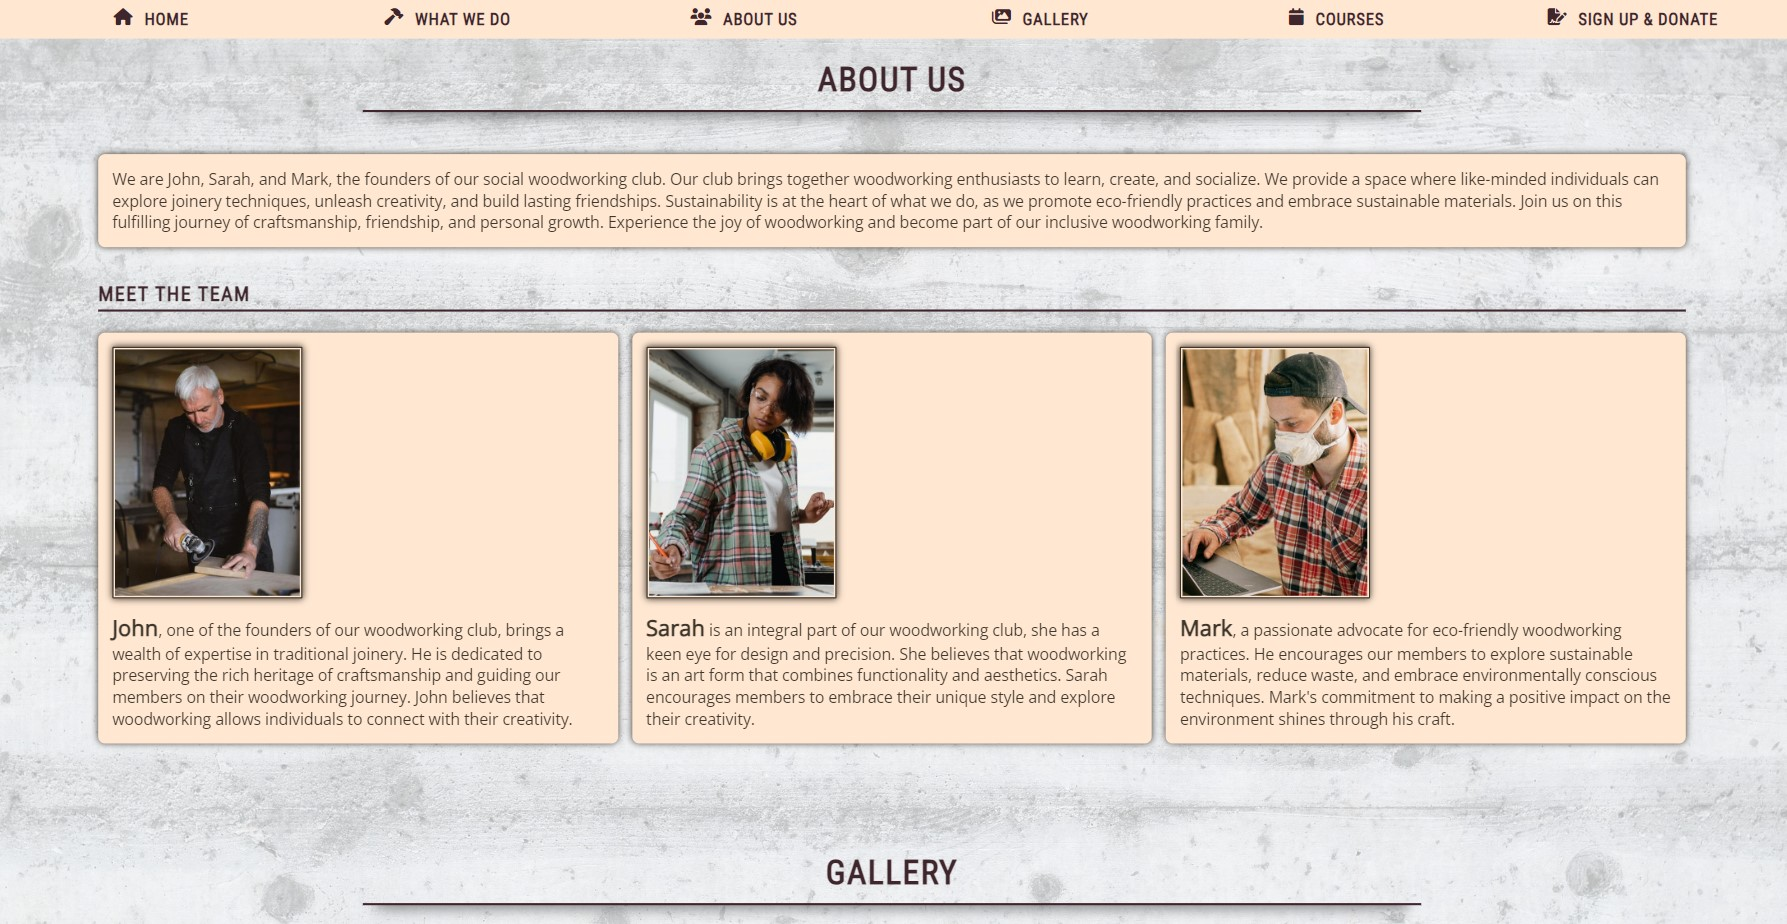
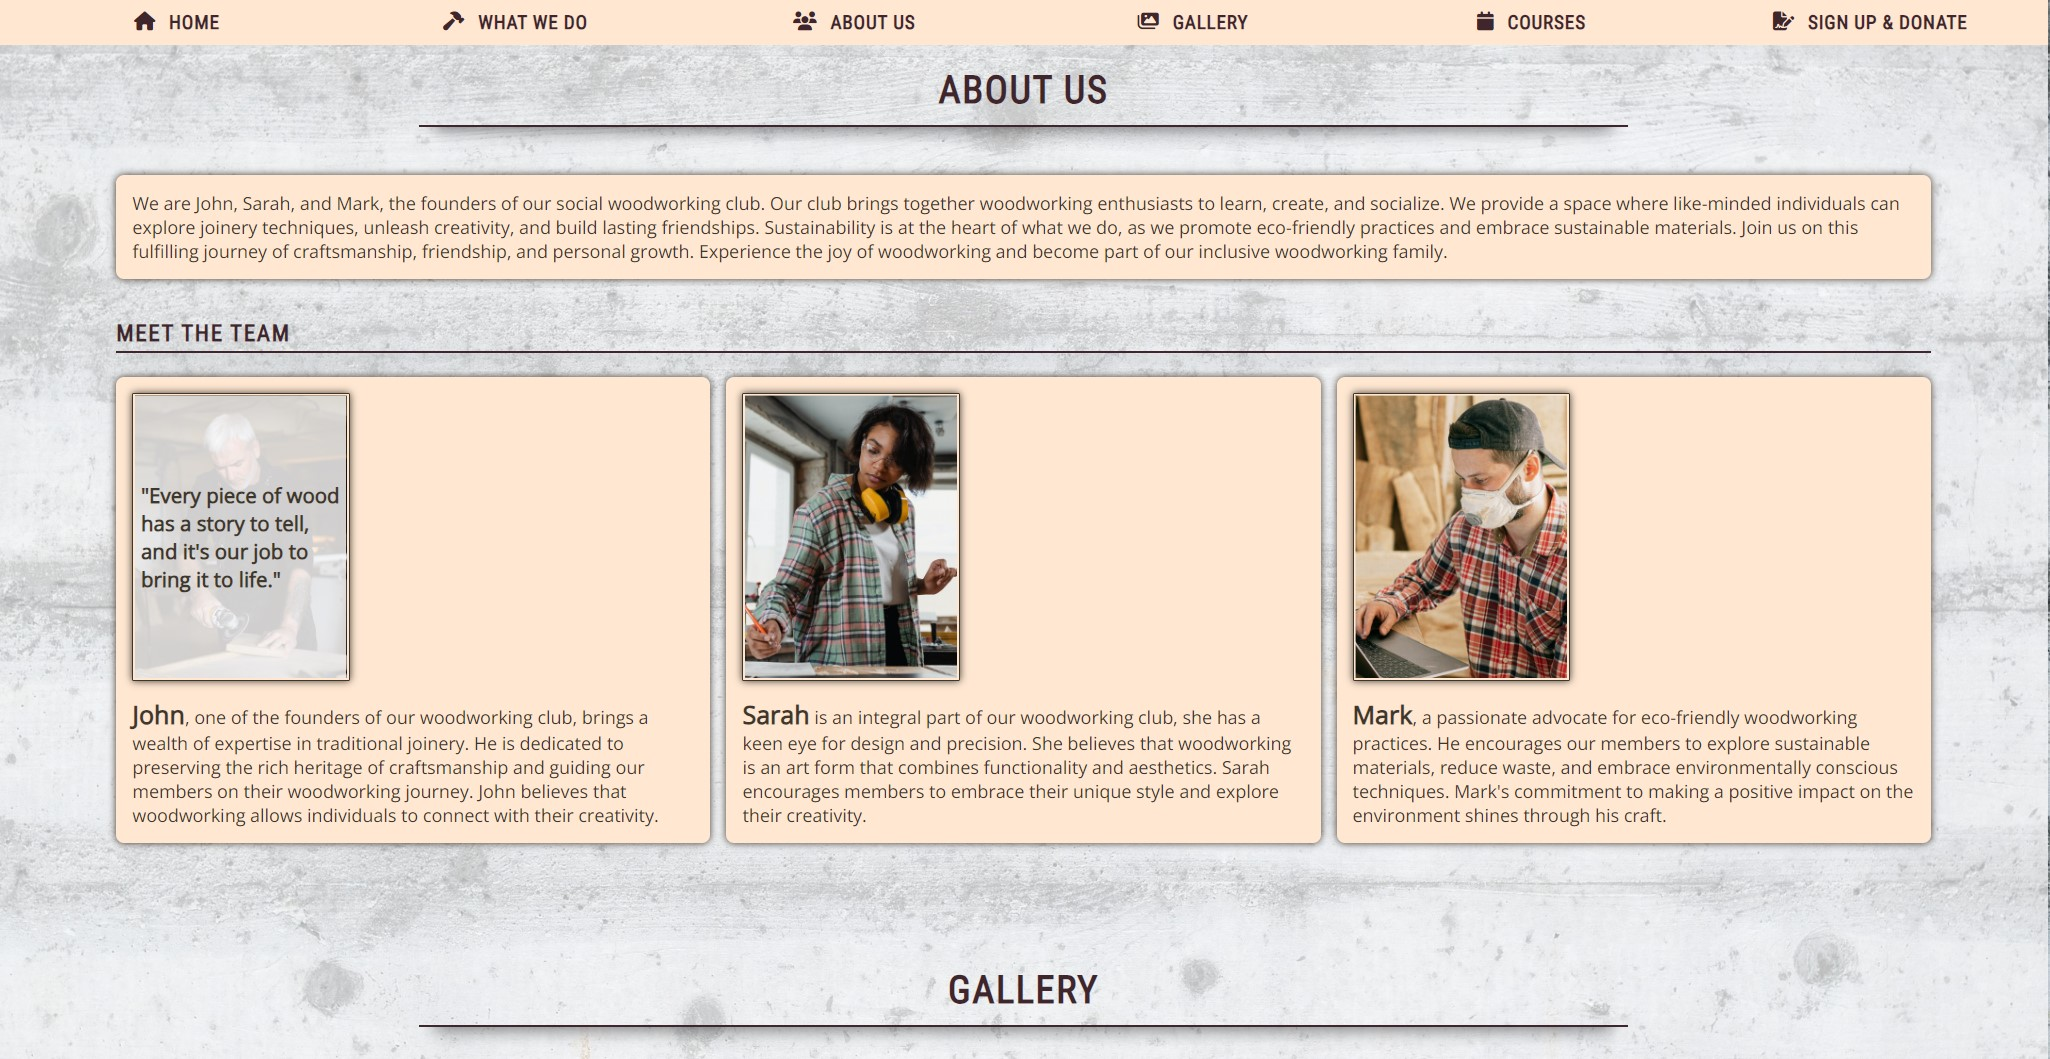
docs: Add content to features section in README.md

diff --git a/README.md b/README.md
@@ -12,6 +12,65 @@ At its core, this website in its current state, aims to attract new and interest
 
 ## Features
 ### Existing Features
++ **Navigation Bar**
+  + A fully responsive navigation bar that, upon clicking, jumps to the respective section.
+  + Remains fixed to the top throughout the whole site to ensure consistent and easy navigation. 
+
++ **The landing page image with slogan**
+  + Animated Hero Image with a zoom out effect to catch the users attention upon opening the site.
+  + The clubs slogan blending in after the hero images animation ends to show the core principles.
+
+![logo, navigation bar and hero image with slogan](assets/docs/website-home.jpg)
+
++ **What we do & Why we do it**
+  + Description of what the Woodworking Club is all about, within colored text boxes to make the texts clearly separated and ease readability. 
+  +  Upon reading through this section, the user will see the benefits of joining the woodworking club or making a donation.
+
+![what we do & why we do it section with text boxes and centered image](assets/docs/website-what-we-do.jpg)
+
++ **About us**
+  + Showcasing the team members and their skills as well as personal goals.
+  + Hovering over the images makes a personal quote of each team member blend in from the top.
+  + The user will experiance a positive feeling upon seeing a very skilled and passionate team that provides guidance and expertise.
+
+![about us section with meet the team sub-section](assets/docs/website-about-us.jpg)
+
++ **Gallery**
+  + A fully responsive masonry style gallery showcasing the workshop, members working on projects and the tools used.
+  + These supporting images show how active and healty the community is.
+  + The user will be able to easily identify the types of work and events the club puts together.
+
+![masonry style image gallery](assets/docs/website-gallery.jpg)
+
++ **Courses**
+  + This section will allow the user to see exactly when and which course will happen.
+  + An interactive Google map makes the location easy to find.
+
+![courses, dates and the location as a google map](assets/docs/website-courses.jpg)
+
++ **Sign up and Donate**
+  + This section will allow the user to get signed up for the different courses. The user will be able to select which course they are interested in.
+  + The second section will allow the user to donate either wood/materials, money, tools or other thing to the club. A description field and image upload will make it easy to describe the specific donation.
+  + The user will have to insert a full name, e-mail address and select and option, respectivly add a description or upload images.
+
++ **Footer**
+  + The footer section includes a Back to the top button to support navigation.
+  + The footer is valuable to the user as it encourages them to keep connected via different social media channels.
+  + A newsletter subscription box will allow the user to reaceive a monthly newsletter.
+
+![sign up and donation form](assets/docs/website-sign-up-footer.jpg)
+
++ **Thank you messages**
+  + Upon clicking each submit button, the user will be redirected to a new site displaying a thank you message including a 'back to the homepage'-button
+
+![thank you message](assets/docs/website-thank-you.jpg)
+
++ **404 Page**
+  + In case of clicking on an incorrect or missing link, or typing an invalid path, the user will be redirected to a 404 - Page Not Found site, which includes 'Back to Homepage'-button for easy navigation.
+  
+
+![404 page not found site](assets/docs/website-404.jpg)
+
 ### Features left to implement
 
 ## Technologies
